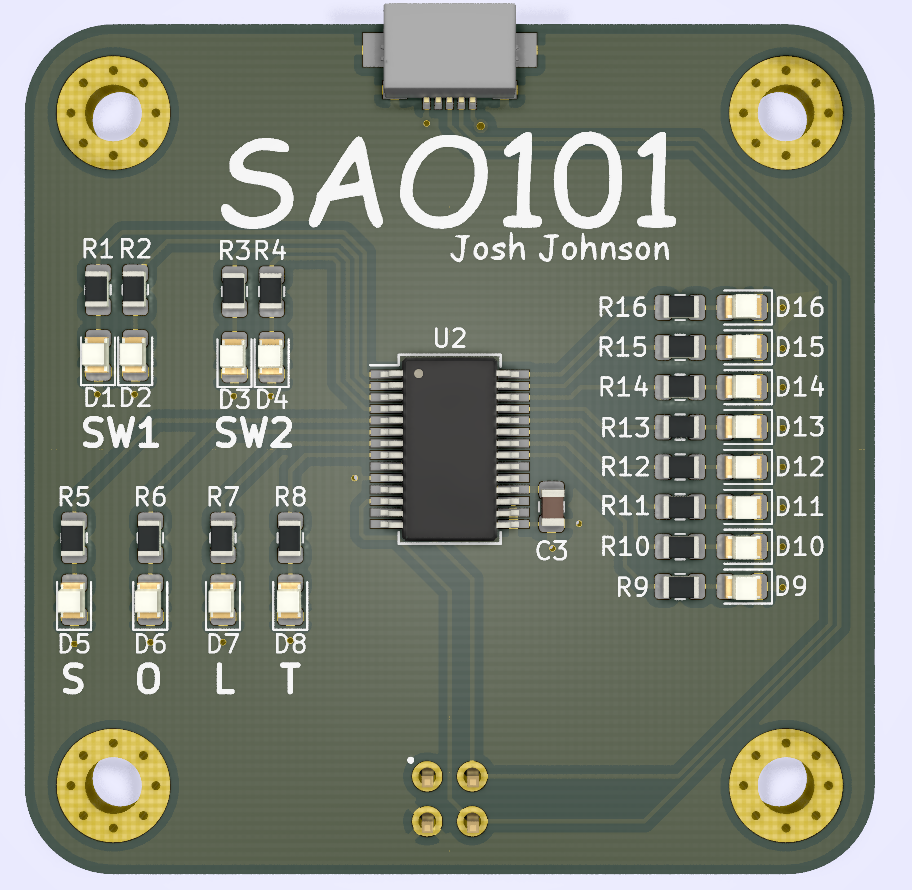
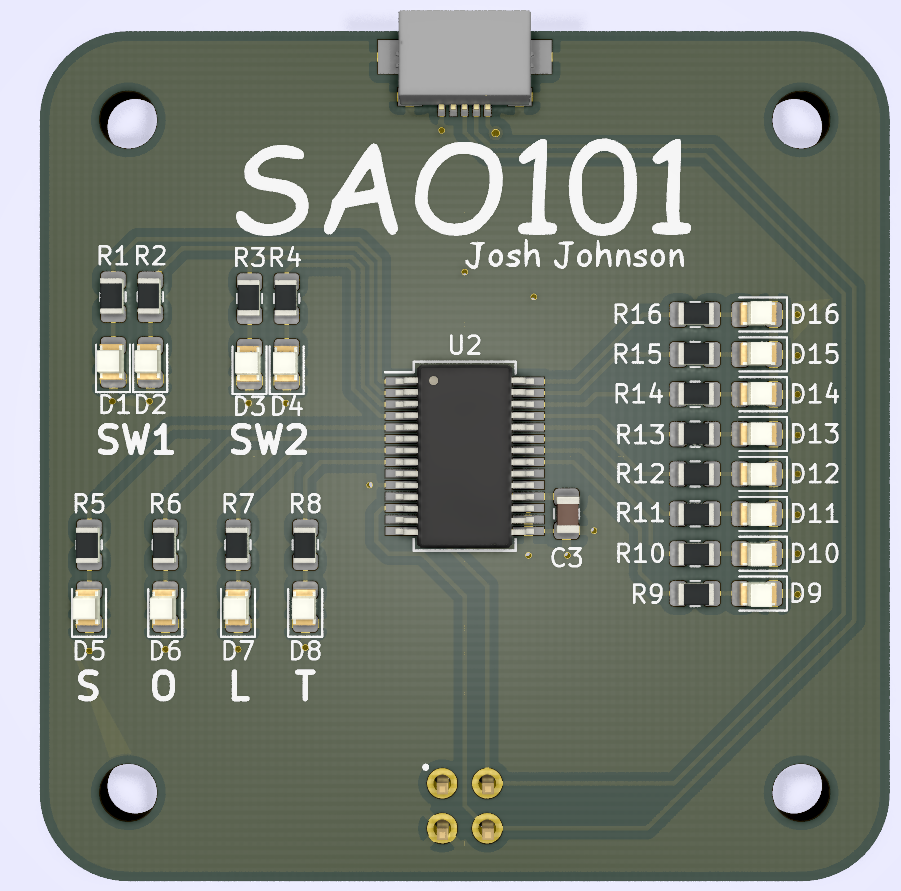
one day I'll learn to spell + updated render

diff --git a/README.md b/README.md
@@ -15,7 +15,7 @@ A workshop going over how to design a printed circuit board in KiCad.
 
 Aimed at beginners who haven't designed many boards before, or folks who have design experience but haven't used KiCad much.  
 
-Feel free to bring a laptop with [KiCad 5.1](http://kicad-pcb.org/download/) installed if you want to design along, otherwise just come along and ask questions as we go. I would highly suggest bringing a mouse as well, as laying out board with a trackpad is not much fun. 
+Feel free to bring a laptop with [KiCad 5.1](http://kicad-pcb.org/download/) installed if you want to design along, otherwise just come along and ask questions as we go. I would highly suggest bringing a mouse as well, as layout with a trackpad is not much fun. 
 
 The [SAO101](/SAO101) folder contains resources which will be used on the night.
 
